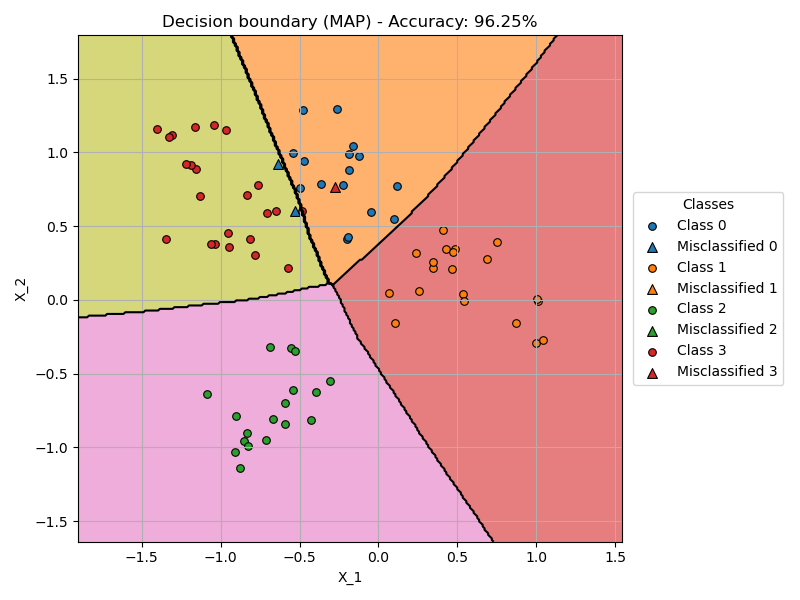
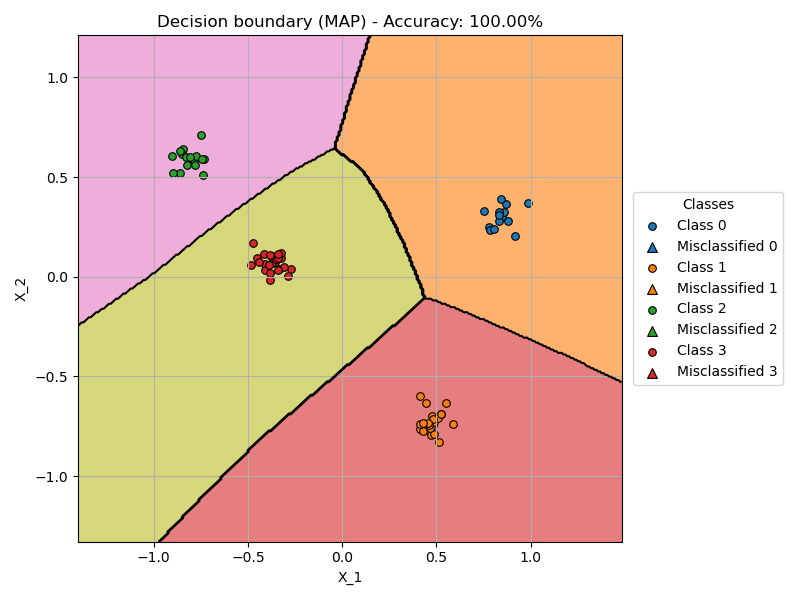
q_LOSS and q_PROJ for 2D dataset with results

diff --git a/main.py b/main.py
@@ -68,8 +68,8 @@ def lla_inference_2D_classifier(model, train_dataset, test_dataset):
     
     metrics = save_metrics_classification(y_test_pred_map, y_test_pred, mean_probs_pred, var_pred, y_test_true.detach().numpy(), "results/metrics/2Dclassifier_lla_metrics.json")
 
-    plot_2D_decision_boundary_entropy(model, theta_samples, x_test, y_test_true, mean_probs_pred)
-    plot_2D_decision_boundary_confidence(model, theta_samples, x_test, y_test_true, mean_probs_pred)
+    plot_2D_decision_boundary_entropy(model, theta_samples, x_test, y_test_true, mean_probs_pred, save_path="results/decision_boundaries/Decision_boundary_lla_entropy.png")
+    plot_2D_decision_boundary_confidence(model, theta_samples, x_test, y_test_true, mean_probs_pred, save_path="results/decision_boundaries/Decision_boundary_lla_confidence.png")
 
     # Restore original MAP parameters
     torch.nn.utils.vector_to_parameters(original_params, model.parameters())
@@ -130,8 +130,8 @@ def projected_posterior_inference_2D_classifier(model, train_dataset, test_datas
     
     metrics = save_metrics_classification(y_test_pred_map, y_test_pred, mean_probs_pred, var_pred, y_test_true.detach().numpy(), "results/metrics/2Dclassifier_proj_metrics.json")
 
-    plot_2D_decision_boundary_entropy(model, theta_samples, x_test, y_test_true, mean_probs_pred)
-    plot_2D_decision_boundary_confidence(model, theta_samples, x_test, y_test_true, mean_probs_pred)
+    plot_2D_decision_boundary_entropy(model, theta_samples, x_test, y_test_true, mean_probs_pred, save_path="results/decision_boundaries/Decision_boundary_proj_entropy.png")
+    plot_2D_decision_boundary_confidence(model, theta_samples, x_test, y_test_true, mean_probs_pred, save_path="results/decision_boundaries/Decision_boundary_proj_confidence.png")
 
     # Restore original MAP parameters
     torch.nn.utils.vector_to_parameters(original_params, model.parameters())
@@ -167,6 +167,38 @@ def loss_posterior_inference(model, x_train, y_train):
     torch.nn.utils.vector_to_parameters(original_params, model.parameters())
     model.eval()
 
+def loss_posterior_inference_2D_classifier(model, train_dataset, test_dataset):
+    x_train = train_dataset[:][0]
+    y_train = train_dataset[:][1]
+    theta_map, covariance = fcmodel.compute_q_loss(model, x_train, y_train)
+    print("MAP Parameters shape:", theta_map.shape)
+    print("Posterior Covariance Shape:", covariance.shape)
+
+    num_samples = 100
+    theta_samples = sample_from_posterior(theta_map, covariance, num_samples)
+
+    # Save original parameters
+    original_params = torch.nn.utils.parameters_to_vector(model.parameters()).clone()
+
+    for i in range(len(theta_samples)):
+        if i % 10 == 0:
+            print(f"Sample {i} Difference from MAP: {torch.norm(theta_samples[i] - theta_map).item()}")
+    
+    x_test = test_dataset[:][0]
+    y_test_true = test_dataset[:][1]
+    y_test_pred_map = torch.nn.functional.softmax(model(x_test), dim=1).detach().numpy()
+    mean_probs_pred, var_pred = fcmodel.bayesian_prediction(model, theta_samples, x_test)
+    y_test_pred = np.argmax(mean_probs_pred, axis=1)
+    
+    metrics = save_metrics_classification(y_test_pred_map, y_test_pred, mean_probs_pred, var_pred, y_test_true.detach().numpy(), "results/metrics/2Dclassifier_loss_metrics.json")
+
+    plot_2D_decision_boundary_entropy(model, theta_samples, x_test, y_test_true, mean_probs_pred, save_path="results/decision_boundaries/Decision_boundary_loss_entropy.png")
+    plot_2D_decision_boundary_confidence(model, theta_samples, x_test, y_test_true, mean_probs_pred, save_path="results/decision_boundaries/Decision_boundary_loss_confidence.png")
+
+    # Restore original MAP parameters
+    torch.nn.utils.vector_to_parameters(original_params, model.parameters())
+    model.eval()  
+
 def run_sine_experiment():
     # Train the MAP estimator
     x_train, y_train = generate_sine_data(1000)
@@ -184,7 +216,7 @@ def run_sine_experiment():
     #loss_posterior_inference(model, x_train, y_train)
 
 def run_2d_classification_experiment():
-    train_dataset = Gaussian2DClassificationDataset(split="train", n_classes=4, points_per_class=100)
+    train_dataset = Gaussian2DClassificationDataset(split="train", n_classes=4, points_per_class=1000)
     test_dataset = Gaussian2DClassificationDataset(split="test", n_classes=4, points_per_class=100)
 
     train_loader = DataLoader(train_dataset, batch_size=64, shuffle=True)
@@ -199,8 +231,9 @@ def run_2d_classification_experiment():
     model.eval()
     #plot_2D_decision_boundary_MAP(model, test_dataset)
 
-    lla_inference_2D_classifier(model, train_dataset, test_dataset)
+    #lla_inference_2D_classifier(model, train_dataset, test_dataset)
     #projected_posterior_inference_2D_classifier(model, train_dataset, test_dataset)
+    loss_posterior_inference_2D_classifier(model, train_dataset, test_dataset)
 
 
 if __name__ == "__main__":

diff --git a/models/fcmodel.py b/models/fcmodel.py
@@ -3,7 +3,7 @@ import torch.nn.functional as F
 import torch
 import numpy as np
 
-from utils import compute_model_jacobian_params_classifier
+from utils import compute_loss_jacobian_params_classifier, compute_model_jacobian_params_classifier
 
 class FC_2D_Net(nn.Module):
     def __init__(self, hidden_units=64, n_classes=4):
@@ -108,17 +108,59 @@ def compute_q_proj(model, x_train, y_train, alpha=10.0):
     H = torch.block_diag(*H_blocks)              # (N·O, N·O)
 
     GGN = (J.T @ H @ J)
-    eigenvalues, V = torch.linalg.eigh(GGN)
+    identity = torch.eye(GGN.shape[0], device=GGN.device)
+    eigenvalues, V = torch.linalg.eigh(identity + GGN)
     
     #TODO: Why do we have to clamp? Why are the values so high?
     eigenvalues = torch.clamp(eigenvalues, max=100) 
     print("Eigenvalues Min:", torch.min(eigenvalues).item())
     print("Eigenvalues Max:", torch.max(eigenvalues).item())
 
-    null_mask = (eigenvalues <= 1e-2).float() 
+    null_mask = (eigenvalues <= 1e-2 + 1).float() 
     print(f"Number of null space dimensions: {null_mask.sum().item()} / {eigenvalues.numel()}")
     I_p = torch.eye(GGN.shape[0])
     projection_matrix = I_p - (V @ (1 - null_mask)) @ V.T
+    projected_covariance = (1.0 / alpha) * projection_matrix
+
+    print("Projected Covariance Diagonal Min:", torch.min(projected_covariance.diagonal()).item())
+    print("Projected Covariance Diagonal Max:", torch.max(projected_covariance.diagonal()).item())
+
+    return theta_map, projected_covariance
+
+def compute_q_loss(model, x_train, y_train, alpha=10.0):
+    """
+    Computes the q_loss posterior for a trained classifier model using the null space of the stacked loss gradients.
+
+    Args:
+        model: Trained classifier model.
+        x_train: Training inputs (torch.Tensor).
+        y_train: Training outputs (torch.Tensor).
+        alpha: Prior precision term (controls posterior variance).
+        loss_fn: Loss function used for training (default: cross-entropy).
+
+    Returns:
+        theta_map: Flattened MAP estimate of model parameters.
+        loss_projected_covariance: Approximate posterior covariance using the loss-projection method.
+    """
+    theta_map = torch.nn.utils.parameters_to_vector(model.parameters()).detach()
+    criterion = nn.CrossEntropyLoss(reduction='sum')
+
+    J_L_theta = compute_loss_jacobian_params_classifier(model, x_train, y_train, criterion)
+    print("Max Jacobian:", torch.max(J_L_theta).item())
+    print("Min Jacobian:", torch.min(J_L_theta).item())
+
+    A = (J_L_theta.T @ J_L_theta)
+    identity = torch.eye(A.shape[0], device=A.device)
+    eigenvalues, V = torch.linalg.eigh(identity + A)
+    
+    eigenvalues = torch.clamp(eigenvalues, max=100) 
+    print("Eigenvalues Min:", torch.min(eigenvalues).item())
+    print("Eigenvalues Max:", torch.max(eigenvalues).item())
+
+    null_mask = (eigenvalues <= (1e-2 + 1)).float() 
+    print(f"Number of null space dimensions: {null_mask.sum().item()} / {eigenvalues.numel()}")
+    I_p = torch.eye(A.shape[0])
+    projection_matrix = I_p - (V @ (1 - null_mask) @ V.T)
     projected_covariance = (1.0 / alpha) * projection_matrix
 
     print("Projected Covariance Diagonal Min:", torch.min(projected_covariance.diagonal()).item())

diff --git a/plots.py b/plots.py
@@ -133,7 +133,7 @@ def plot_2D_decision_boundary_MAP(model, test_dataset, resolution=300, alpha=0.6
     plt.savefig(f'results/decision_boundaries/MAP_decision_boundary.png')
     plt.show()
 
-def plot_2D_decision_boundary_entropy(model, theta_samples, X_test, y_test, mean_probs_test, resolution=300, alpha=1.0):
+def plot_2D_decision_boundary_entropy(model, theta_samples, X_test, y_test, mean_probs_test, resolution=300, alpha=1.0, save_path="results/decision_boundaries/Bayesian_decision_boundary_entropy.png"):
     """
     Plots predictive entropy as the background and overlays test points with class-color and correctness markers.
 
@@ -222,12 +222,12 @@ def plot_2D_decision_boundary_entropy(model, theta_samples, X_test, y_test, mean
 
     # Adjust layout so both legend and colorbar have space
     plt.tight_layout(rect=[0, 0, 0.85, 1])  # Reserve 15% for right margin
-    plt.savefig("results/decision_boundaries/Bayesian_decision_boundary_entropy.png")
+    plt.savefig(save_path)
     plt.show()
 
 
 
-def plot_2D_decision_boundary_confidence(model, theta_samples, X_test, y_test, mean_probs_test, resolution=300, alpha=1.0):
+def plot_2D_decision_boundary_confidence(model, theta_samples, X_test, y_test, mean_probs_test, resolution=300, alpha=1.0, save_path="results/decision_boundaries/Bayesian_decision_boundary_confidence.png"):
     """
     Plots a confidence map as a grayscale background where brightness increases near decision boundaries.
     Test points are colored by class and marked by correctness (circles/triangles).
@@ -310,5 +310,5 @@ def plot_2D_decision_boundary_confidence(model, theta_samples, X_test, y_test, m
         title="Test Points"
     )
     plt.tight_layout(rect=[0, 0, 0.85, 1])
-    plt.savefig("results/decision_boundaries/Bayesian_decision_boundary_confidence.png")
+    plt.savefig(save_path)
     plt.show()

diff --git a/utils.py b/utils.py
@@ -129,6 +129,47 @@ def compute_model_jacobian_params_classifier(model, x_train):
 
     return J
 
+def compute_loss_jacobian_params_classifier(model, x_train, y_train, criterion):
+    """
+    Computes the Jacobian of the per-datum loss w.r.t. model parameters
+    for a classification model (e.g. FC_2D_Net on MNIST or 2D toy data).
+
+    Args:
+        model: PyTorch classification model.
+        x_train: Input data (torch.Tensor), shape (N, D).
+        y_train: Ground-truth labels (torch.Tensor), shape (N,).
+        criterion: Loss function (e.g., nn.CrossEntropyLoss with reduction='sum').
+
+    Returns:
+        J_L: Jacobian matrix (N, P) where:
+             - N = number of samples
+             - P = number of model parameters
+    """
+    model.eval()
+    device = next(model.parameters()).device
+    x_train = x_train.to(device)
+    y_train = y_train.to(device)
+
+    num_samples = x_train.shape[0]
+    num_params = sum(p.numel() for p in model.parameters())
+    J_L_theta = torch.zeros(num_samples, num_params, device=device)
+
+    for i in range(num_samples):
+        model.zero_grad()
+        xi = x_train[i].unsqueeze(0)      # Shape: (1, D)
+        yi = y_train[i].unsqueeze(0)      # Shape: (1,)
+        
+        output = model(xi)                # Shape: (1, num_classes)
+        loss = criterion(output, yi)      # Scalar loss
+        grads = torch.autograd.grad(loss, model.parameters(), retain_graph=True, create_graph=True)
+
+        grads = [g.view(-1) for g in grads]
+        J_L_theta[i] = torch.cat(grads)
+
+    return J_L_theta
+
+
+
 def sample_from_posterior(theta_map, covariance, num_samples=10, scale=0.1):
     """
     Samples parameters from the posterior using SVD for stability

diff --git a/data/gaussian_2d_dataset.py b/data/gaussian_2d_dataset.py
@@ -4,7 +4,7 @@ from torch.utils.data import Dataset
 
 class Gaussian2DClassificationDataset(Dataset):
     def __init__(self, split="train", n_classes=4, points_per_class=1000, center_box=(-1, 1),
-                 std=0.25, split_ratio=0.8, seed=42):
+                 std=0.05, split_ratio=0.8, seed=77):
         """
         PyTorch-style Dataset for 2D Gaussian blob classification.
 
